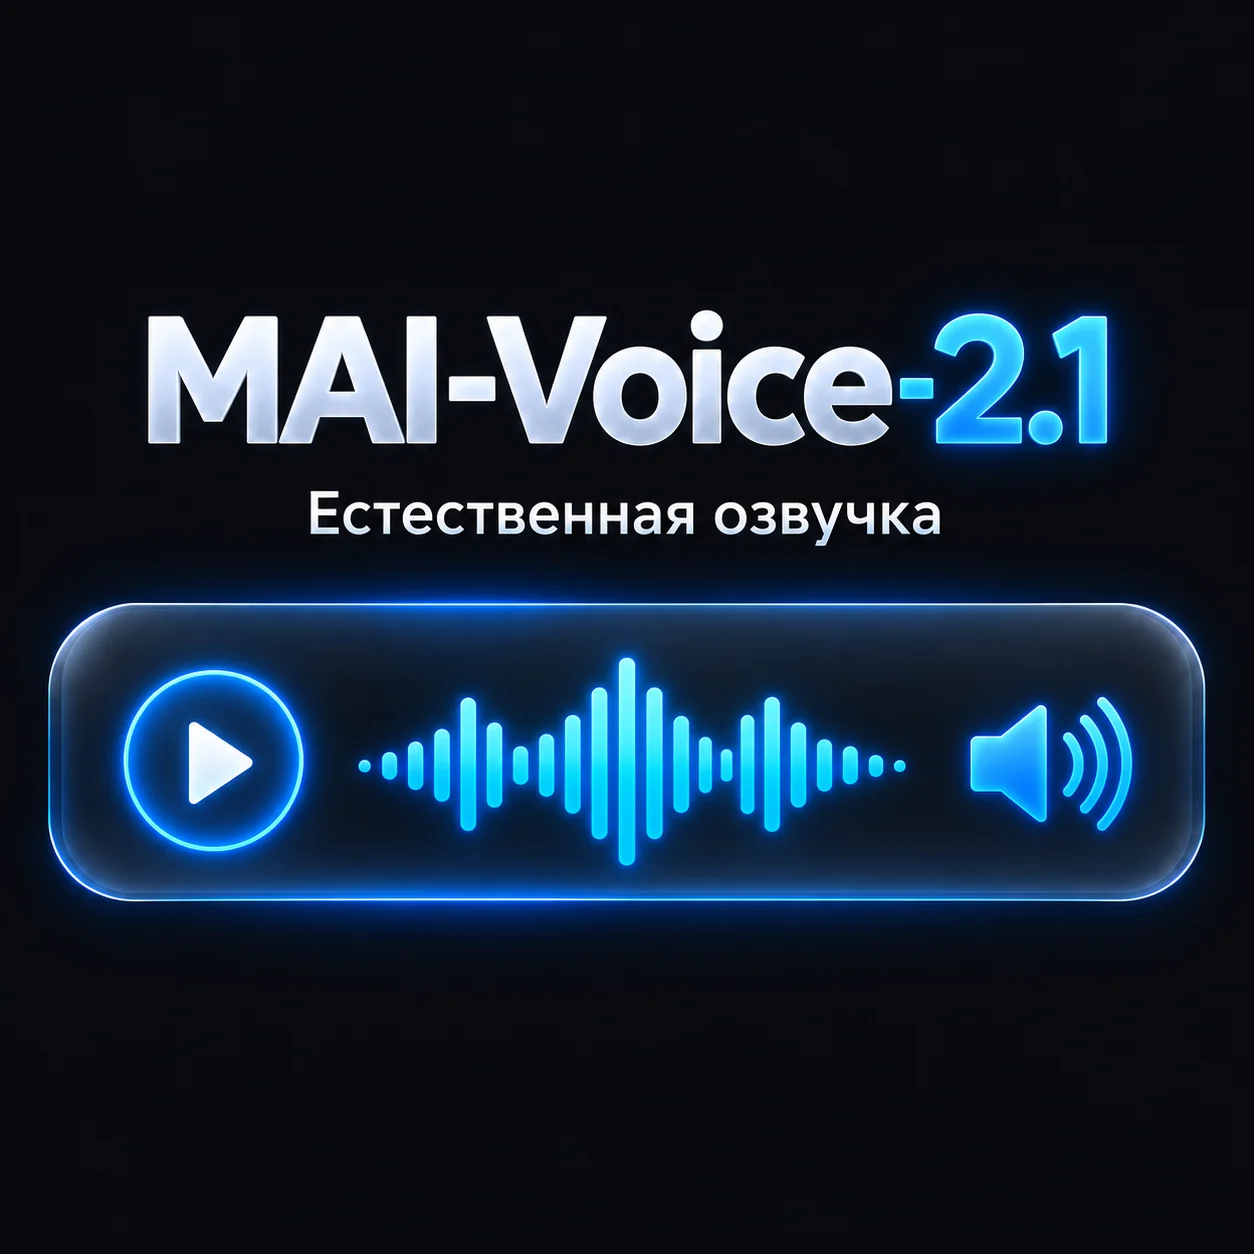
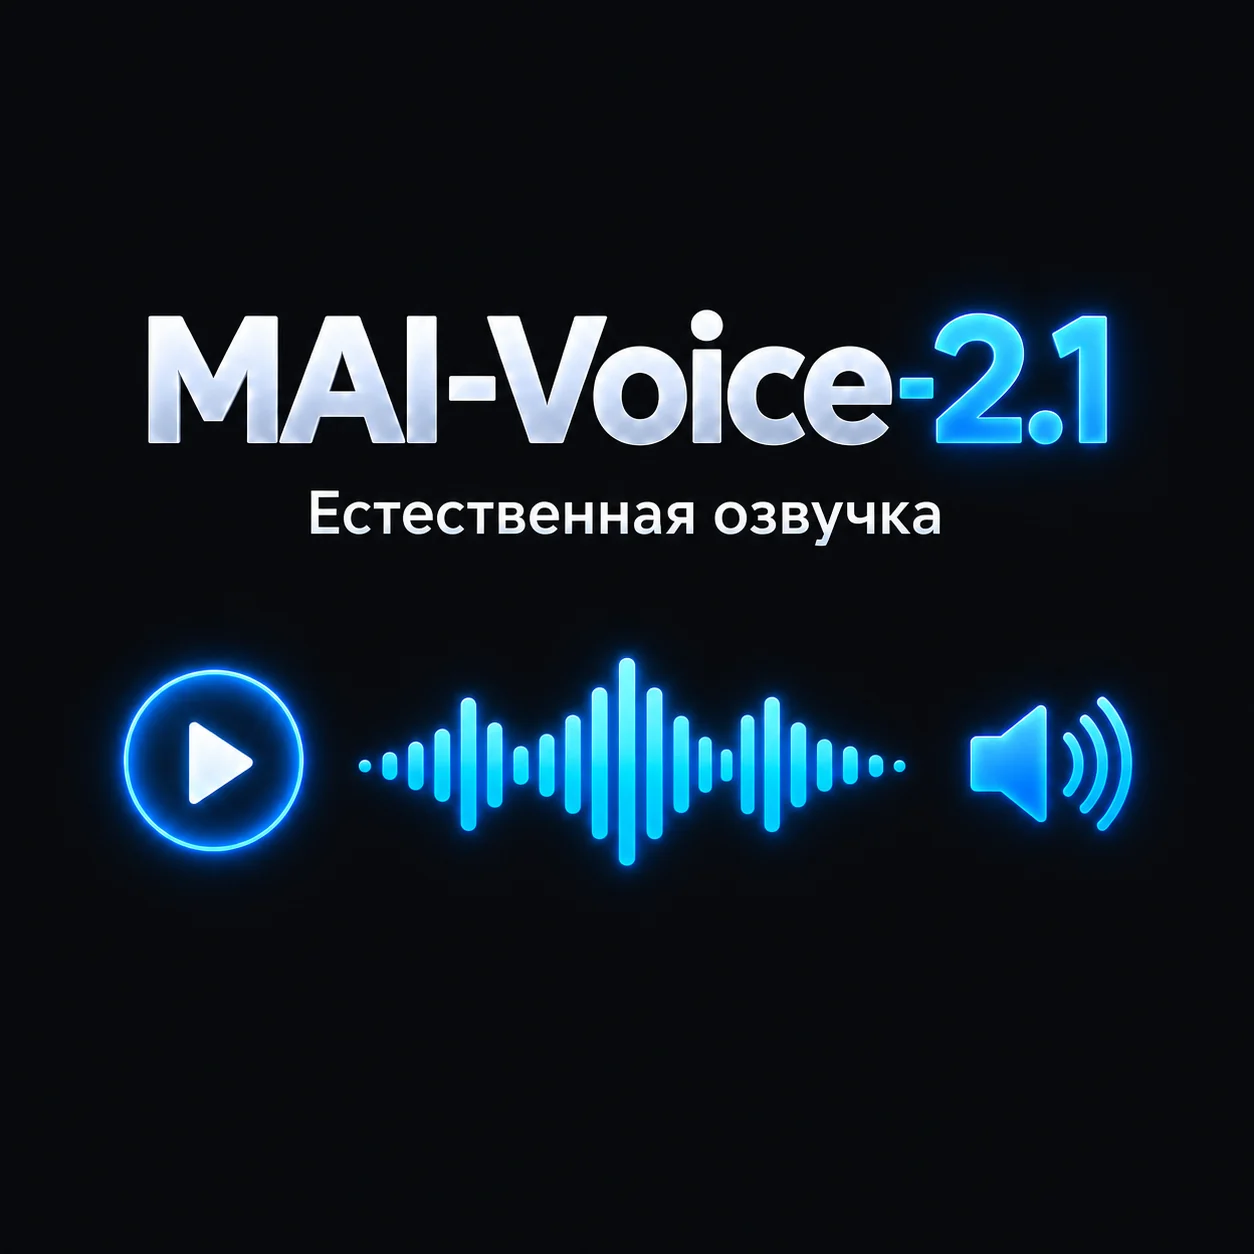
feat: deploy to Firebase Hosting, absolute og tags, borderless MAI-Voice tile
Add firebase.json and .firebaserc (project popizdi), keep .git and
config files out of the published site, set og:image and og:url to
https://popizdi.web.app and regenerate the MAI-Voice-2.1 tile.

diff --git a/index.html b/index.html
@@ -13,7 +13,10 @@
       property="og:description"
       content="Диктовка в любом приложении macOS: 60 языков, облачные модели Microsoft MAI или офлайн GigaAM и Parakeet. Бесплатно, MIT."
     />
-    <meta property="og:image" content="assets/banner.jpg" />
+    <meta property="og:image" content="https://popizdi.web.app/assets/banner.jpg" />
+    <meta property="og:url" content="https://popizdi.web.app/" />
+    <meta property="og:type" content="website" />
+    <meta name="twitter:card" content="summary_large_image" />
     <meta name="theme-color" content="#0b0d12" />
     <link rel="icon" href="assets/favicon.ico" sizes="any" />
     <link rel="icon" type="image/png" sizes="32x32" href="assets/favicon-32.png" />
@@ -2158,7 +2161,7 @@
             <div class="brow r2">
               <div class="tile"><img src="assets/illustrations-new/tile-pyannote.webp?v=4" alt="pyannote: кто говорит, спикеры с таймкодами, на CoreML" loading="lazy" /></div>
               <div class="tile"><img src="assets/illustrations-new/tile-mai-transcribe.webp?v=4" alt="MAI-Transcribe-2: облако, около 100 мс" loading="lazy" /></div>
-              <div class="tile"><img src="assets/illustrations-new/tile-mai-voice.webp?v=4" alt="MAI-Voice-2.1: естественная озвучка" loading="lazy" /></div>
+              <div class="tile"><img src="assets/illustrations-new/tile-mai-voice.webp?v=5" alt="MAI-Voice-2.1: естественная озвучка" loading="lazy" /></div>
             </div>
           </div>
         </div>

diff --git a/README.md b/README.md
@@ -12,6 +12,18 @@ python3 -m http.server 8080
 
 Откройте <http://localhost:8080>.
 
+## Деплой на Firebase Hosting
+
+Сайт опубликован на **https://popizdi.web.app** (проект Firebase `popizdi`).
+
+```bash
+npm install -g firebase-tools
+firebase login
+firebase deploy --only hosting --project popizdi
+```
+
+Настройки лежат в `firebase.json` (заголовки, кэш, список файлов, которые не публикуются) и `.firebaserc`. Автодеплой из GitHub включается командой `firebase init hosting:github`.
+
 ## Автодеплой на Vercel
 
 Репозиторий готов к подключению через Git-интеграцию Vercel: после подключения каждый push в `main` выкатывается на боевой адрес, а каждая ветка и pull request получают свой предпросмотр.
